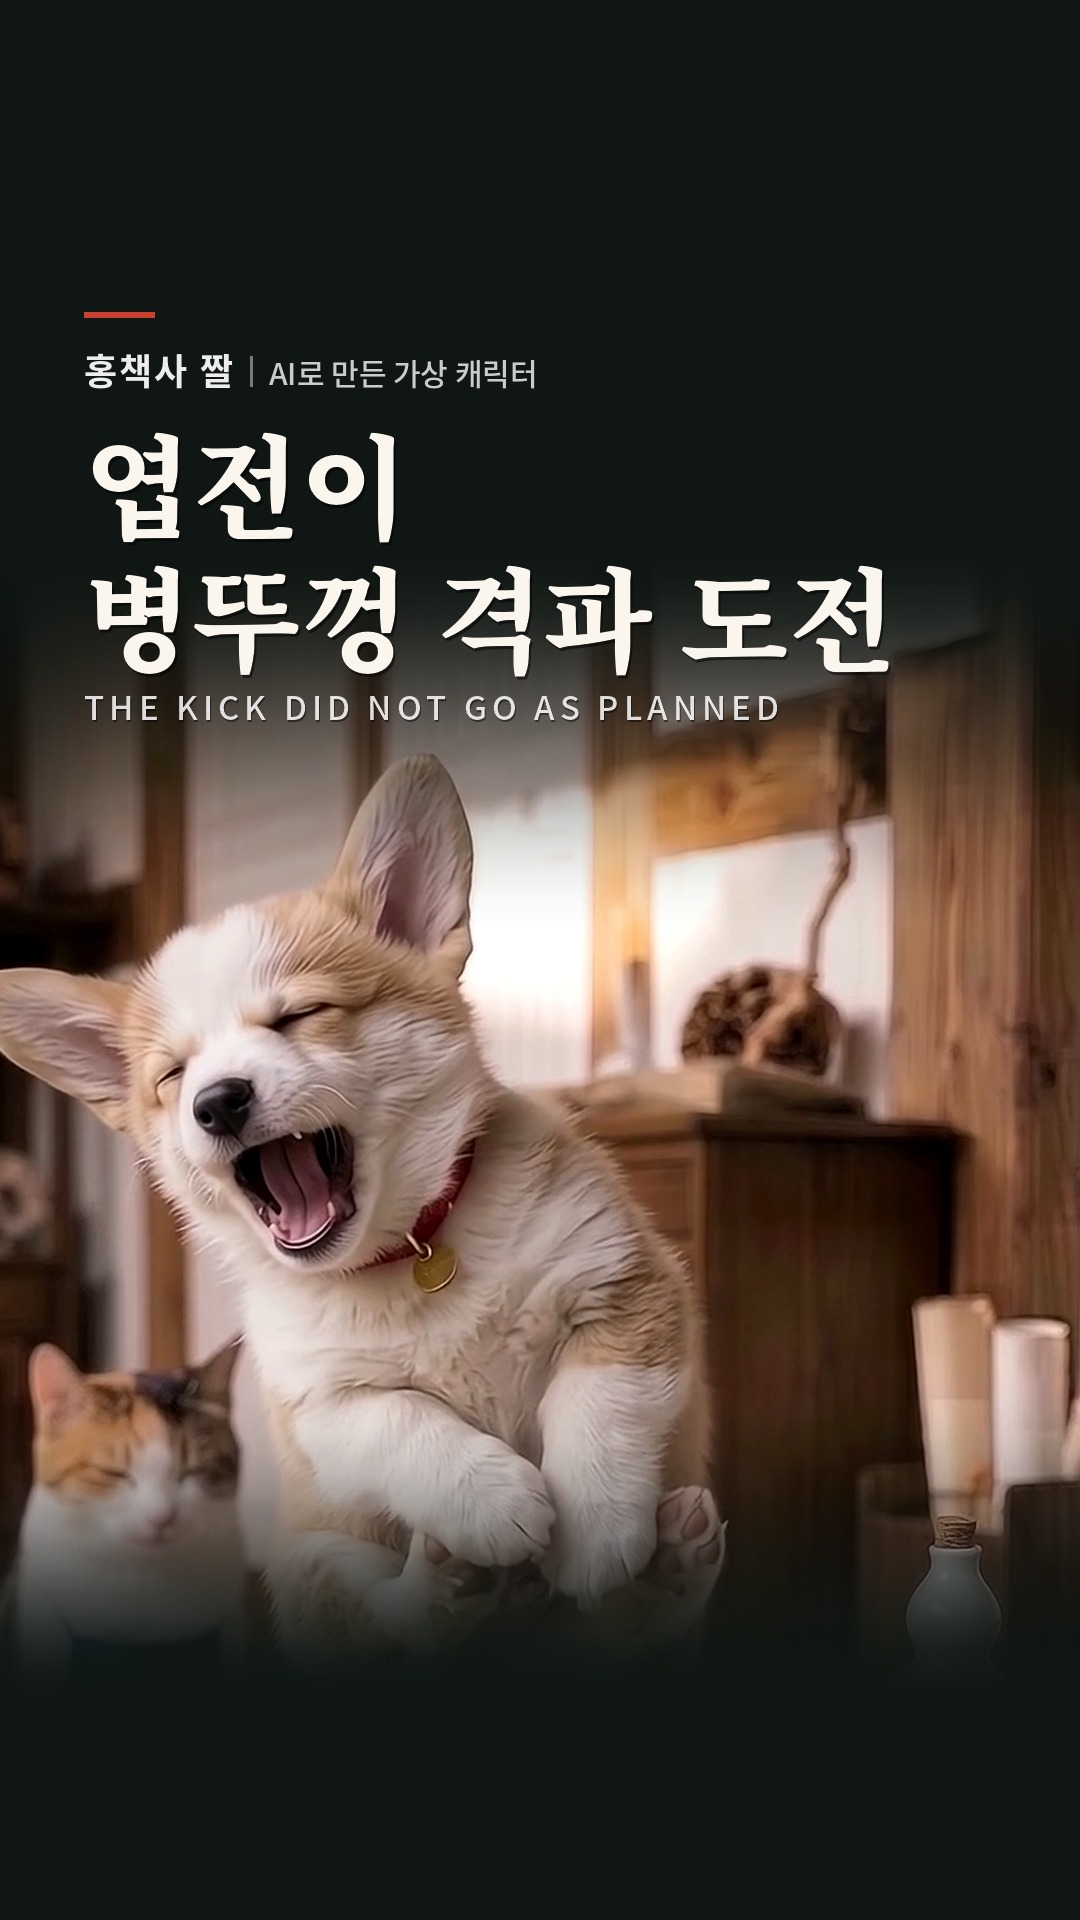
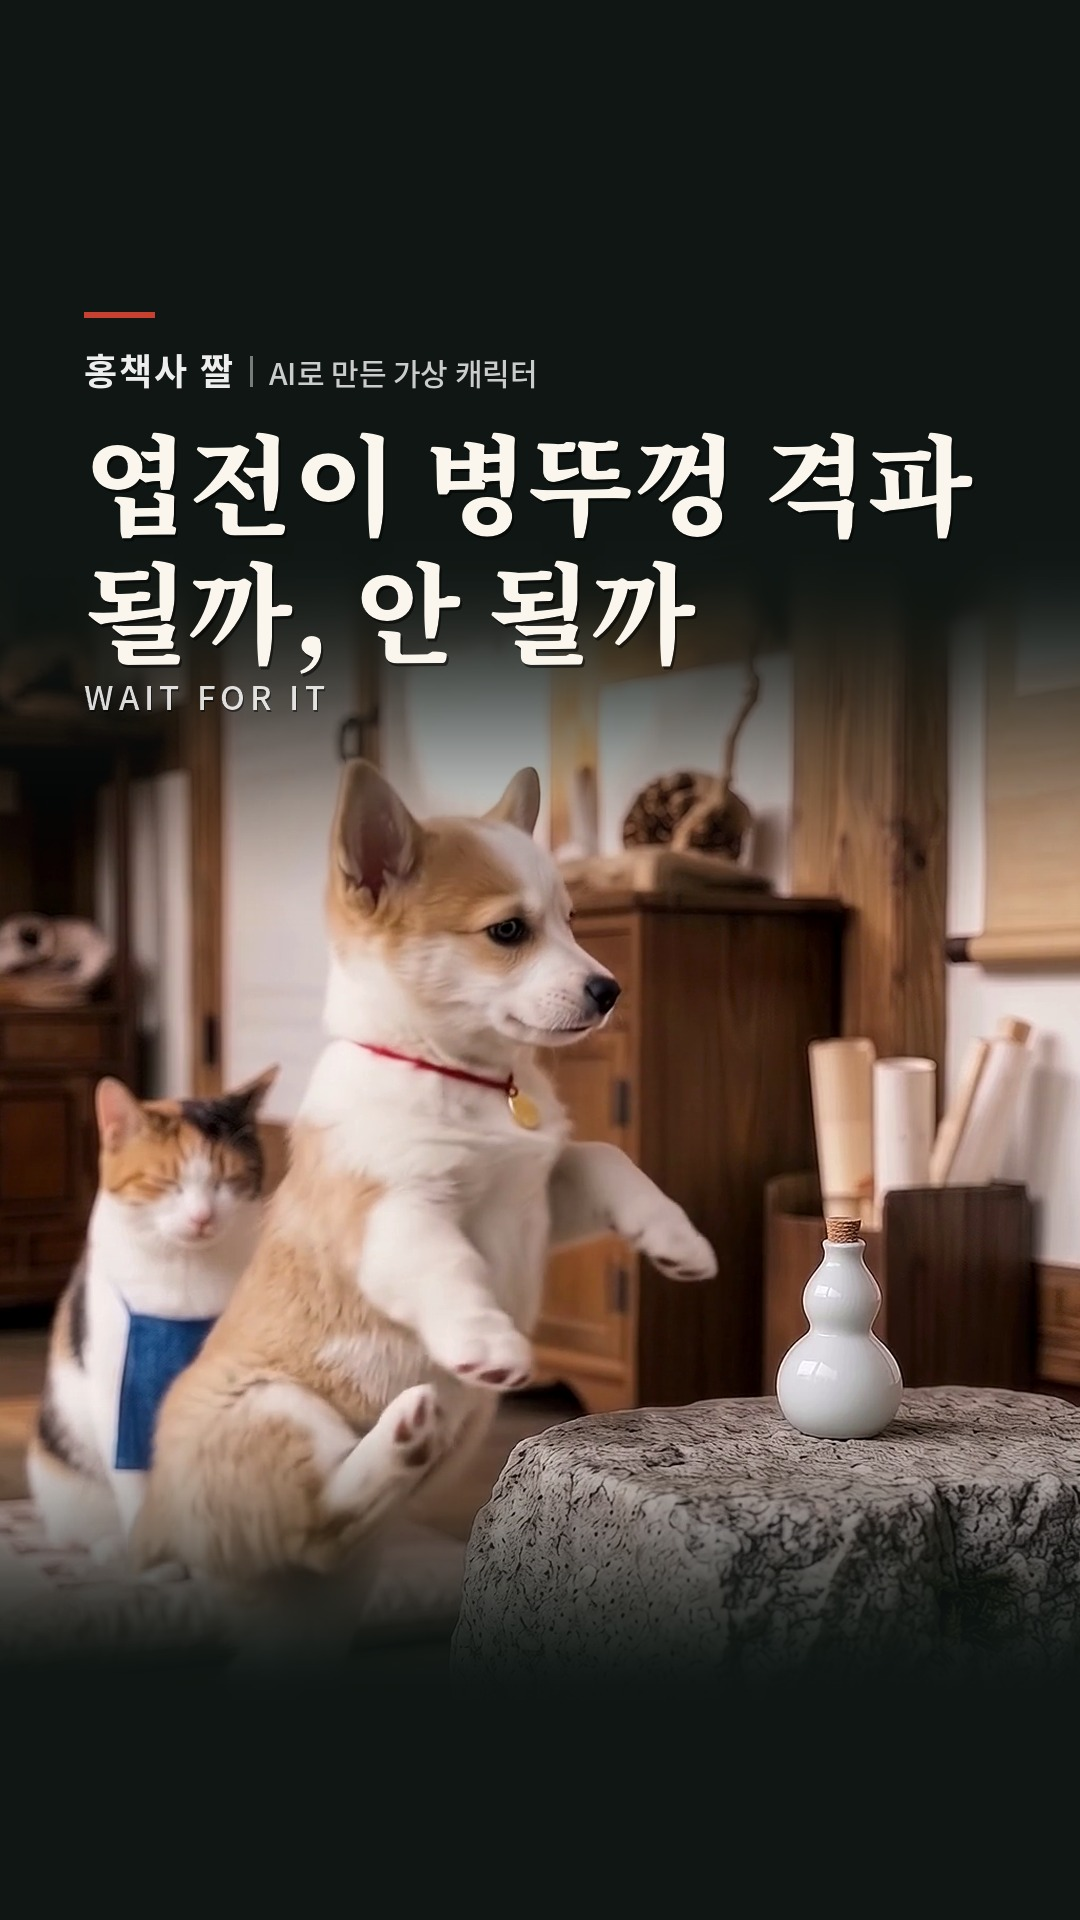
홍책사 짤 병뚜껑 격파 v8: 결과를 숨긴 표지(다리를 든 진지한 자세)와 스포일러 없는 문안
Claude-Session: https://claude.ai/code/session_0193v2TEqnQ4kury68y6FPxh

diff --git a/w/261126/kick3/hcs_kick_v8_texts.py b/w/261126/kick3/hcs_kick_v8_texts.py
@@ -1,47 +1,43 @@
-# 홍책사 짤 '엽전이 병뚜껑 격파' v8(구글 플로우, 돌덩이, 오른쪽 뒷다리, 쓰러진 채 맺음 문구) 채널별 문안. 음악과 효과음은 자체 제작.
-U = "https://hongchaksa.kr/2027?ref=kick01&utm_source={s}&utm_medium=social&utm_campaign=w2611&utm_content=kick01"
-HOOK = "엽전이가 놓친 게 하나 있어요. 뭘까요?"
-ENDING = "운수 안 좋은 날은 피해 가야 하는 법이에요."
-STORY = "웅장하게 자세 잡고 오른쪽 뒷다리로 힘껏 찼는데, 발은 돌덩이에 쾅, 병뚜껑은 그대로예요. 공중에서 긴 비명, 바닥에서 데굴데굴, 뒤에서 복채는 끝까지 무표정이었어요."
-EN = "He trained for this moment. The bottle did not care. AI-generated characters."
+# 홍책사 짤 '엽전이 병뚜껑 격파' v8 채널별 문안. 결과(돌을 차고 아파하는 장면)를 미리 말하지 않는다. 음악과 효과음은 자체 제작.
+U = "https://hongchaksa.kr/2027?ref=kick01&utm_source={s}&utm_medium=social&utm_campaign=w2611&utm_content=kick01_stone"
+HOOK = "돌 위에 놓인 병뚜껑 하나, 엽전이가 진지하게 노려봐요. 될까요, 안 될까요?"
+ASK = "결과는 끝까지 보고 댓글로 알려 주세요."
+EN = "One kick. One cork. Wait for it. AI-generated characters."
 TAGS = "#홍책사 #강아지 #고양이 #동물짤 #오늘의운수"
+NOTE = "AI로 만든 가상 캐릭터예요. 음악은 자체 제작 곡이에요. 재미와 자기 성찰을 위한 풀이예요."
 IG = f"""{HOOK}
 
-{STORY}
-{ENDING}
+{ASK}
 
 내 오늘의 운수가 궁금하면 프로필 링크 hongchaksa.kr
 
-AI로 만든 가상 캐릭터예요. 음악은 자체 제작 곡이에요. 재미와 자기 성찰을 위한 풀이예요.
+{NOTE}
 
 {EN}
 
 {TAGS}"""
 FB = f"""{HOOK}
 
-{STORY}
-{ENDING}
+{ASK}
 
 내 오늘의 운수가 궁금할 땐 여기서 봐요.
 {U.format(s="facebook")}
 
-AI로 만든 가상 캐릭터예요. 음악은 자체 제작 곡이에요. 재미와 자기 성찰을 위한 풀이예요.
+{NOTE}
 
 {TAGS}"""
-FIRST = "정답은 댓글로 남겨 주세요. 비명 내내 복채 표정도 다시 보세요."
-ALT = "한옥 대청에서 강아지 엽전이가 두 발로 서서 무술 자세를 잡고 오른쪽 뒷다리로 돌덩이 위 호리병 뚜껑을 차려다 발이 돌덩이에 부딪혀 돌가루가 튀고, 공중에서 느린 화면으로 비명을 지른 뒤 바닥을 뒹구는 동안 뒤에서 삼색 고양이 복채가 무표정으로 지켜보고, 끝에 '운수 안 좋은 날은 피해 가야 하는 법, 홍책사' 문구가 뜨는 영상."
-TH = """엽전이가 놓친 게 하나 있어요. 뭘까요?
-(AI로 만든 가상 캐릭터, 음악은 자체 제작 곡)
-#강아지"""
-TH_REPLY = "엽전이의 병뚜껑 격파 도전이었어요. 내 오늘의 운수가 궁금할 땐 " + U.format(s="threads") + "\n재미와 자기 성찰을 위한 풀이예요."
-YT_TITLE = "강아지가 돌 위 병뚜껑을 차려다 생긴 일 | 홍책사"
-YT_DESC = """웅장하게 자세 잡고 오른쪽 뒷다리로 힘껏 찼는데, 발은 돌덩이에 쾅, 병뚜껑은 그대로예요. 공중에서 긴 비명, 바닥에서 데굴데굴, 뒤에서 복채는 끝까지 무표정이었어요. 운수 안 좋은 날은 피해 가야 하는 법이에요. 엽전이가 놓친 게 하나 있어요. 뭘까요?
+FB_TITLE = "강아지의 병뚜껑 격파 도전"
+FIRST = "성공에 걸어요, 실패에 걸어요? 복채 표정도 끝까지 지켜봐 주세요."
+ALT = "한옥 대청에서 강아지 엽전이가 두 발로 서서 무술 자세를 잡고 오른쪽 뒷다리로 돌덩이 위 호리병 뚜껑을 차려다 발이 돌덩이에 부딪혀 돌가루가 튀고, 공중에서 느린 화면으로 비명을 지른 뒤 바닥에 쓰러져 뒹구는 동안 뒤에서 삼색 고양이 복채가 무표정으로 지켜보고, 끝에 '운수 안 좋은 날은 피해 가야 하는 법, 홍책사' 문구가 뜨는 영상."
+YT_TITLE = "강아지가 돌 위 병뚜껑 격파에 도전했다 | 홍책사"
+YT_DESC = f"""{HOOK} 결과는 끝에 있어요.
 
 내 오늘의 운수가 궁금할 땐 여기서 봐요.
-""" + U.format(s="youtube") + """
+{U.format(s="youtube")}
 채널 이름을 누르면 바로 가는 링크가 있어요.
 
-AI로 만든 가상 캐릭터예요. 음악은 자체 제작 곡이에요. 재미와 자기 성찰을 위한 풀이예요.
+{NOTE}
 
 #강아지 #고양이 #홍책사"""
+YT_FIRST = "성공에 걸어요, 실패에 걸어요? 복채 표정도 끝까지 지켜봐 주세요.\n발차기 자신 있는 친구한테 보내 주세요."
 YT_TAGS = ["홍책사", "강아지", "고양이", "동물짤", "웃긴영상", "강아지밈", "병뚜껑챌린지", "오늘의운수", "무술", "funny dog"]
